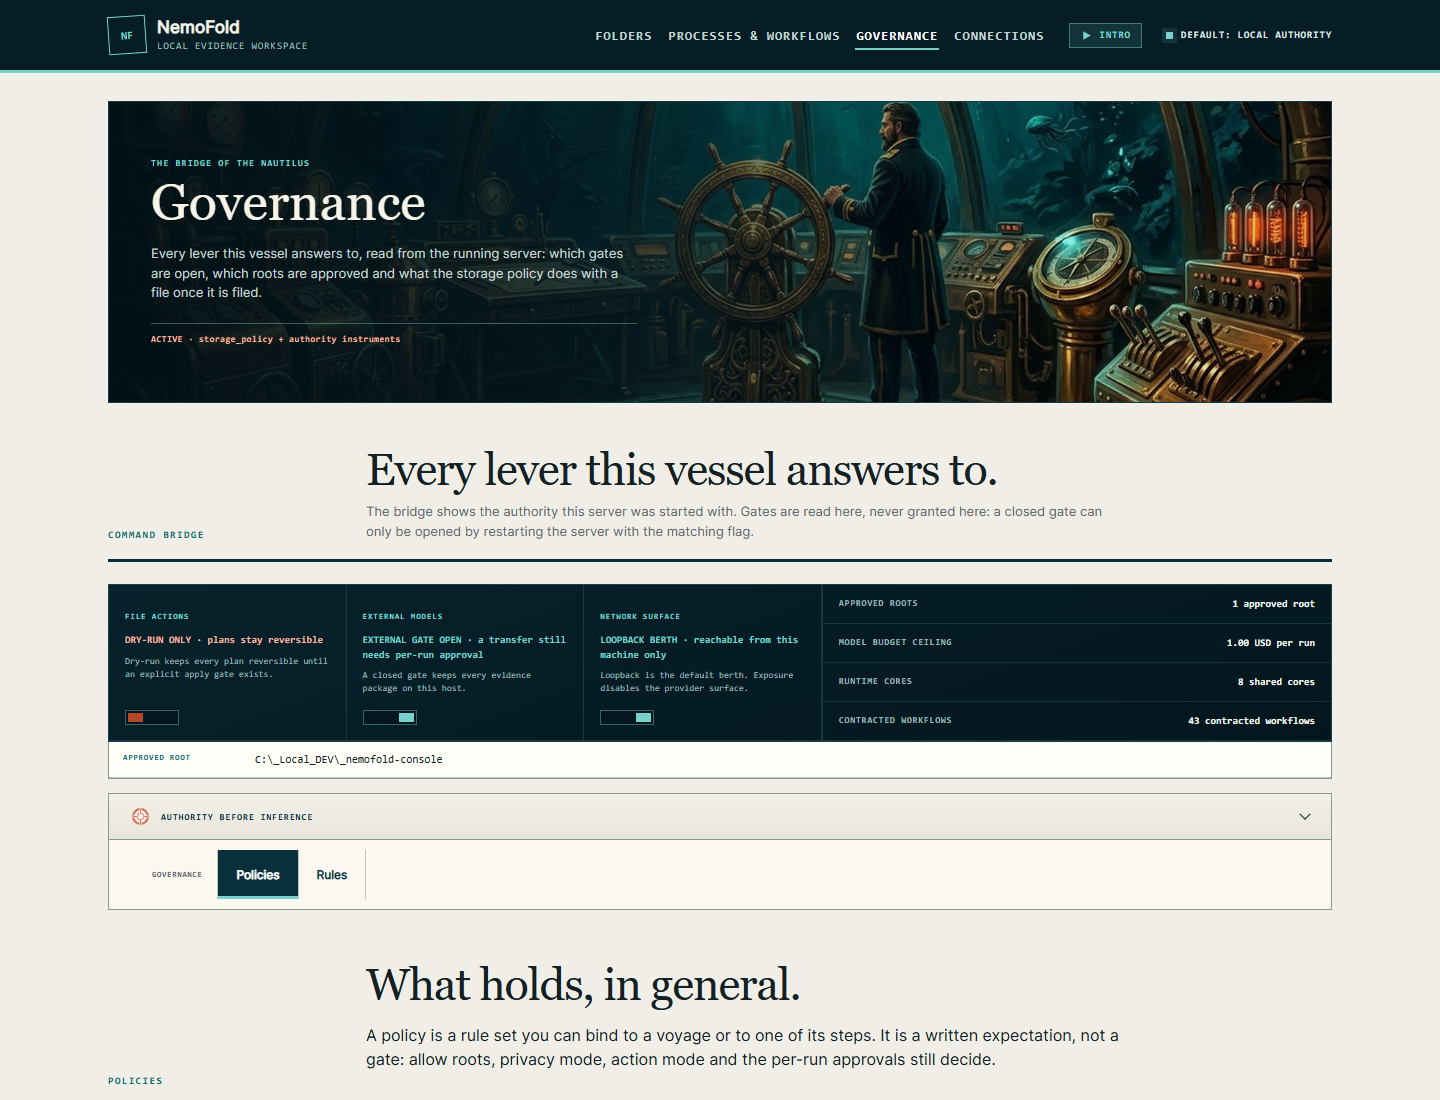
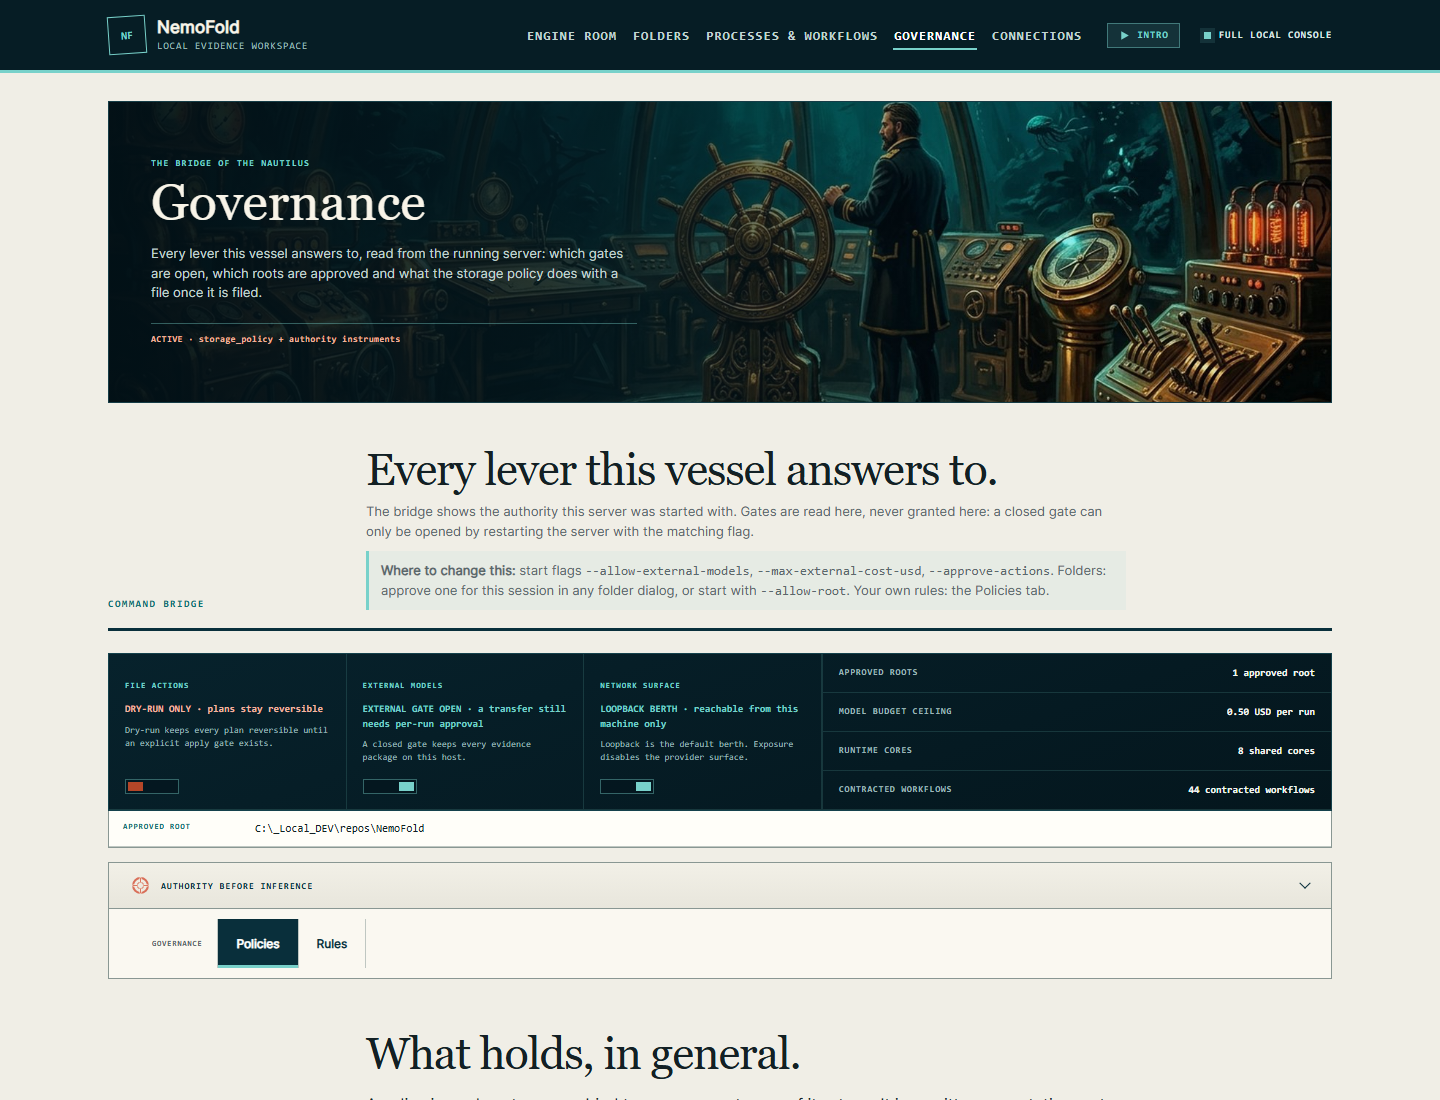
docs: align README, README_de and llms.txt with console vocabulary and Nebius provider
Actions, workflows, use cases and blueprints; workbench start page; free folder
choice; mode label; Nemotron on Nebius selectable in the console (not competition
proof); refreshed console screenshots.

diff --git a/README_de.md b/README_de.md
@@ -48,9 +48,9 @@ lassen sie sich auch für Fälle verketten, für die noch niemand einen Workflow
 geschrieben hat.
 
 Es passt sich Ihren Usecases auf zwei ehrliche Arten an: Das Captain's Desk plant aus
-einem einfachen Satz neue Kombinationen vorhandener Bausteine, und jede vorbereitete
-Fahrt wird zu einem wiederverwendbaren Entwurf. Das ist die ganze Lerngeschichte — eine
-wachsende Bibliothek von Fahrten, kein Modell, das auf Ihren Dateien trainiert. Es wird
+einem einfachen Satz neue Kombinationen vorhandener Bausteine, und jeder vorbereitete
+Plan wird zu einem wiederverwendbaren Entwurf. Das ist die ganze Lerngeschichte — eine
+wachsende Bibliothek von Usecases, kein Modell, das auf Ihren Dateien trainiert. Es wird
 nichts feinjustiert, und nichts aus Ihren Dokumenten verlässt den Rechner ohne Ihre
 Freigabe für genau diesen Transfer.
 
@@ -250,7 +250,9 @@ Das Design von NemoFold basiert auf zehn unverletzlichen System-Invarianten:
 <a id="was-implementiert-ist"></a>
 ## 6. Implementierte Dokument-Workflows
 
-`SUPPORTED_WORKFLOWS` registriert 44 Jobverträge. Die gründenden sechzehn stehen
+`SUPPORTED_WORKFLOWS` registriert 44 Jobverträge; in der Konsole ist jeder davon eine
+**Action** (ein einzelner Schritt), ein **Workflow** dagegen eine Kette aus zwei oder
+mehr Actions ([Abschnitt 16](#16-lokale-webkonsole--routen)). Die gründenden sechzehn stehen
 unten; die Fallchronik-Tiefenanalyse ergänzt sieben weitere
 ([Abschnitt 13](#13-fallchronik-tiefenanalyse)), das Prüf-/Vergleichs-/Komponier-Set
 sieben ([Abschnitt 15](#15-pruefen-vergleichen--komponieren)), und vierzehn weitere
@@ -300,7 +302,7 @@ keiner davon hatte vor diesem Durchgang eine Tabellenzeile.
 | Print Action (`print_action`) | Übergibt eine benannte Datei an das betriebssystemseitig registrierte Druckprogramm und hält fest, dass das Drucken selbst Ihr Schritt ist, nicht der Lauf |
 | Chunk Export (`chunk_export`) | Deterministische, überlappende Retrieval-Chunks für Ihren eigenen RAG-Index, jeder mit Quelle, Zeichen-Offsets, Zeilen und SHA-256, dazu ein gehashtes Manifest; ungelesene oder leere Quellen bleiben aufgeführt, und ein Korpus über der erklärten Grenze wird als Ganzes abgelehnt statt teilweise exportiert |
 
-Der Reiter Registry unter Processes & Workflows enthält außerdem den lokalen
+Der Reiter Blueprints unter Processes & Workflows enthält außerdem den lokalen
 **Research-Notebook**-Arbeitsbereich. Er hält Untersuchungsziel, freigegebene Wurzeln,
 wiederverwendbare Fragen/Prompts, Provider-Konfiguration und die Spur verifizierter
 Laufjournale zusammen, ohne API-Schlüssel oder Freigaben zu speichern.
@@ -314,7 +316,7 @@ Abdeckungslücken erhalten.
 Cloud-Kosten, Uploads, echte NemoClaw-/Nebius-Ausführung und weitere Änderungen an
 Devpost bleiben getrennte menschliche Freigabegates.
 
-![NemoFold-Konsole, Processes & Workflows: die Use-Case-Bibliothek mit gespeicherten Voyages und den mitgelieferten Spezialisten](docs/media/nemofold-console.png)
+![NemoFold-Konsole, Startseite als Werkbank: oben das Captain's Desk, darunter der geöffnete Maschinenraum](docs/media/nemofold-console.png)
 
 <a id="sec-07"></a><a id="7-installation--quick-start"></a><a id="7-installation--schnellstart"></a>
 <a id="installation--quick-start"></a><a id="installation--schnellstart"></a>
@@ -460,9 +462,15 @@ claude mcp add --scope user nemofold -- python -m nemofold mcp `
 
 Lokale Provider sind auf Loopback beschränkt. Externe Adapter verlangen `allow_once`,
 ein serverseitiges Gate für externe Modelle und eine Freigabe je Übertragung. Schlüssel
-werden nur aus Umgebungsvariablen gelesen. Generische Providerbelege werden niemals
-zum Nebius-Wettbewerbsnachweis; dafür bleibt ausschließlich der nächste Abschnitt
-zuständig. Siehe [Provideradapter, lokale API und MCP](docs/providers-and-mcp.md).
+werden nur aus Umgebungsvariablen gelesen. Nemotron auf der Nebius Token Factory ist
+in der lokalen Konsole außerdem als Provider `nebius` wählbar: Der Schlüssel kommt nur
+aus `NEBIUS_API_KEY`, der Server muss mit
+`--allow-external-models --max-external-cost-usd <n>` gestartet sein, jeder Lauf
+braucht eine eigene Freigabe mit Datenschutzmodus `allow_once`, und gesendet werden nur
+pseudonymisierte Ausschnitte. Generische Providerbelege, auch ein Konsolenlauf mit
+`nebius`, werden niemals zum Nebius-Wettbewerbsnachweis; dafür bleibt ausschließlich
+der nächste Abschnitt (der separate Pfad `token-factory-run`, eingecheckt unter
+`examples/proven-run/`) zuständig. Siehe [Provideradapter, lokale API und MCP](docs/providers-and-mcp.md).
 
 <a id="sec-11"></a><a id="11-approved-nebius-token-factory-run"></a><a id="11-belegter-nebius-token-factory-lauf"></a>
 <a id="approved-nebius-token-factory-run"></a><a id="belegter-nebius-token-factory-lauf"></a>
@@ -599,10 +607,15 @@ und des Journals fortsetzen.
 <a id="my-use-cases-the-voyages-library"></a><a id="meine-usecases-die-fahrten-bibliothek"></a>
 ## 12. Fahrtbibliothek & Captain's Desk
 
-Ein Plan, den Sie behalten, bekommt einen Namen. Die Übersicht trägt die Bibliothek:
-gespeicherte Fahrten neben fünf Spezialisten, die NemoFold mitbringt — Faktendestillat
+Ein Plan, den Sie behalten, bekommt einen Namen und heißt **Usecase**: eine Action oder
+ein Workflow, aus einem Blueprint übernommen (oder vom Captain geplant) und an Ihre
+eigenen Ordner gebunden. Die Konsole listet sie unter *My use cases*; die
+mitgelieferten Ausgangspunkte stehen unter *Blueprints*
+([Abschnitt 16](#16-lokale-webkonsole--routen)). Im Folgenden ist eine „Fahrt“ der
+gespeicherte Plan hinter einem Usecase. Die Bibliothek trägt gespeicherte Fahrten neben
+fünf Blueprints, die NemoFold mitbringt — Faktendestillat
 als PDF, Themenbündel mit Belegen, Tagesbericht, Verzeichnistabelle und
-Angebotssynopse. Ein Spezialist ist ein schreibgeschützter Ausgangspunkt: Er trägt
+Angebotssynopse. Ein mitgelieferter Blueprint ist ein schreibgeschützter Ausgangspunkt: Er trägt
 Workflows und Parameter, aber keinen Pfad. Eine mitgelieferte Datei kann deshalb nie
 einen Ordner auf Ihrem Rechner benennen und nie von selbst laufen. Beim Kopieren wird
 sie an Ihre freigegebenen Roots gebunden und ist danach ein gewöhnlicher, bearbeitbarer
@@ -843,7 +856,10 @@ $env:PYTHONPATH = "$PWD\src"
 python -m nemofold serve --allow-root $PWD --base-dir $PWD
 ```
 
-Öffne `http://127.0.0.1:8765`. Die Konsole verwendet denselben strikten Auftragsparser
+Öffne `http://127.0.0.1:8765`; das Etikett oben lautet `FULL LOCAL CONSOLE` (die Demo
+unten: `PUBLIC DEMO · SYNTHETIC DATA ONLY`). Der Standard-Beispielordner ist die
+fiktive Fallakte `examples/synthetic-case` mit deutschen Standardfragen. Die Konsole
+verwendet denselben strikten Auftragsparser
 und Anwendungsdienst wie die CLI. Sie bindet nur an Loopback, lehnt Cross-Origin-POSTs
 ab und verlangt `--expose-network`, bevor sie eine Nicht-Loopback-Adresse verwendet.
 Auch dann bleiben die autoritätstragenden Flächen Loopback-only: Ein netzexponierter
@@ -852,22 +868,38 @@ Hosting für andere Personen läuft über `serve-demo`. Preview ist der standard
 sichere Pfad; Aktionsworkflows benötigen zusätzlich das serverseitige Gate
 `--approve-actions`, bevor eine Apply-Anfrage erfolgreich sein kann.
 
-Übersicht und vier Arbeitsbereiche besitzen eigene, direkt aufrufbare Routen statt
+Die Startseite `/` ist die **Werkbank**: oben das Captain's Desk, darunter der
+geöffnete Maschinenraum (erster Menüpunkt: *Engine room*). Übersicht und vier
+Arbeitsbereiche besitzen eigene, direkt aufrufbare Routen statt
 Sprüngen innerhalb einer langen Seite: `/`, `/folders`, `/processes`, `/governance` und
 `/connections`. Analysis, Routines und Artifacts waren einmal eigene Räume — damit
 entschied die Tür, durch die man kam, darüber, was man sehen konnte. Sie sind jetzt drei
-Untertabs von Processes & Workflows: `?tab=workflows`, `?tab=registry` und
-`?tab=artifacts`. Die alten Routen führen weiterhin irgendwohin: `/document-center`,
+Untertabs von Processes & Workflows: `?tab=workflows` (My use cases), `?tab=registry`
+(Blueprints) und `?tab=artifacts` (die URL-Schlüssel sind unverändert). Die alten Routen führen weiterhin irgendwohin: `/document-center`,
 `/analysis`, `/routines` und `/artifacts` leiten auf ihren Nachfolger um, und ein Link,
-der einen einzelnen Vertrag nennt, landet im Register mit genau diesem Vertrag.
+der einen einzelnen Vertrag nennt, landet im Reiter Blueprints mit genau diesem Vertrag.
+
+Begriffe: Eine **Action** ist ein Schritt, also einer der 44 Jobverträge (das API-Feld
+heißt weiterhin `workflow`); ein **Workflow** ist eine Kette aus zwei oder mehr
+Actions; ein **Usecase** ist eine übernommene, an Ihre eigenen Ordner gebundene Action
+oder ein ebensolcher Workflow; **Blueprints** sind die Vorlagen. Der Reiter Blueprints
+listet Workflow-Blueprints (zwei oder mehr Schritte), Single-Action-Blueprints,
+*My blueprints* und darunter alle 44 Actions, jeweils mit *Add to my use cases* und
+*Try once*. Ein Blueprint lässt sich beliebig oft übernehmen (Kopien werden
+nummeriert) und im Dialog umbenennen; ein Usecase lässt sich als eigener Blueprint
+speichern oder mit *Remove from my use cases* entfernen, was den Blueprint nie
+berührt. Usecase-Details öffnen als Dialog.
 
 Verändert hat sich, was vorn steht, nicht die Räume. Usecase-Kacheln sind das
 Primärobjekt, thematisch über Tags filterbar, und eine Routine ist schlicht ein Usecase
 mit Zeitplan und dem abgeleiteten Tag `scheduled` — dieser Filter macht aus dem Bullauge
-das Echolot und holt die letzten Routineläufe nach vorn. Die Einzelinstrumente, also die
-44 Jobverträge für sich, leben in einem nicht-thematischen Register, dessen Editor
+das Echolot und holt die letzten Routineläufe nach vorn. Die einzelnen Actions, also die
+44 Actions (Jobverträge) für sich, stehen im Reiter Blueprints, dessen Editor
 der Maschinenraum ist. Folders ist das Zuhause der Ordner: welche überwacht werden, was
-tatsächlich an Bord ist, und welche Usecases daran hängen. Die Übersicht selbst bleibt
+tatsächlich an Bord ist, und welche Usecases daran hängen. In der lokalen Konsole
+durchsucht der Ordnerdialog jeden Ordner dieses Rechners und gibt ihn für die laufende
+Sitzung frei (`/api/approve-root`); gelesen wird erst nach dieser Freigabe. Die
+Public Demo und ein netzfreigegebener Server verweigern das. Die Übersicht selbst bleibt
 bewusst karg — eine Überschrift, ein Satz und die Bereichskarten — und faltet
 Grenz-Kacheln, Evidenzkette, Vertragsregister und Roadmap hinter eine alte Seekarte, die
 sich per Klick oder Enter aufklappt. Nichts wird entfernt; die Dokumentation verschmutzt
@@ -880,7 +912,8 @@ geschlossenes Gate verlangt weiterhin einen Neustart mit dem passenden Flag. Dar
 liegen die beiden Register aus dem nächsten Abschnitt. Artifacts öffnet ausgeführte oder
 blockierte Ledger und prüft jeden erfassten Artefakthash. Connections ist eine reine
 Statusseite und trennt konfigurierte Adapter, ausgeführte Providerläufe, Transfers und
-Cloud-Nachweise sichtbar voneinander. Das Register enthält weiterhin alles, was es immer
+Cloud-Nachweise sichtbar voneinander; Connections und Governance sagen jeweils, wo
+sich eine Einstellung ändern lässt. Die Konsole enthält weiterhin alles, was es immer
 enthielt: erklärbare Cleanup Rules, schreibgeschützten Mail-to-Case-Ingest, kontrollierte
 E-Mail-Entwürfe, den quellengebundenen Contact Monitor, deterministische
 Bundle-Vorbereitung, Datenschutz-Preflight, Evidence Analyst, wiederverwendbare

diff --git a/README.md b/README.md
@@ -48,9 +48,9 @@ shared rather than private to one workflow, the same building blocks can be chai
 for a case nobody has written a workflow for yet.
 
 It adapts to your use cases in two honest ways: the Captain's Desk plans new
-combinations of existing primitives from one plain sentence, and every prepared voyage
+combinations of existing primitives from one plain sentence, and every prepared plan
 becomes a reusable draft. That is the whole learning story - a growing library of
-voyages, not a model that trains on your files. Nothing is fine-tuned, and nothing
+use cases, not a model that trains on your files. Nothing is fine-tuned, and nothing
 about your documents leaves the host unless you approve that specific transfer.
 
 The same core serves both ends of the range: everyday work on a laptop with a small
@@ -249,7 +249,9 @@ NemoFold enforces ten architectural invariants across all workflows, CLI command
 <a id="what-is-implemented"></a>
 ## 6. Implemented Document Workflows
 
-`SUPPORTED_WORKFLOWS` registers 44 job contracts. The founding sixteen are below;
+`SUPPORTED_WORKFLOWS` registers 44 job contracts; in the console each one is an
+**action** (a single step), while a **workflow** is a chain of two or more actions
+([Section 16](#16-local-web-console--routes)). The founding sixteen are below;
 Case Chronicle deep analysis adds seven more ([Section 13](#13-case-chronicle-deep-analysis)),
 the checking/comparing/composing set adds seven ([Section 15](#15-checking-comparing--composing)),
 and fourteen further gate-verified structured-source, web, export and specialist workflows
@@ -298,7 +300,7 @@ table row before this pass.
 | Print Action (`print_action`) | Hands one named file to the OS-registered print handler and records that printing, not the run, is the user's own step |
 | Chunk Export (`chunk_export`) | Deterministic, overlapping retrieval chunks for your own RAG index, each with source, character offsets, lines and SHA-256, plus a hashed manifest; unread or empty sources stay listed, and a corpus over the declared bound is refused whole instead of exported in part |
 
-The Registry tab under Processes & Workflows also holds the local **Research Notebook**
+The Blueprints tab under Processes & Workflows also holds the local **Research Notebook**
 workspace. It keeps an investigation goal, approved roots, reusable questions/prompts,
 provider configuration, and a trail of verified run ledgers together without storing
 API keys or approvals.
@@ -311,7 +313,7 @@ unreadable files remain visible as coverage gaps.
 Cloud spend, uploads, live NemoClaw/Nebius execution, and further Devpost changes
 remain separate human approval gates.
 
-![NemoFold console, Processes & Workflows: the use-case library with saved voyages and the shipped specialists](docs/media/nemofold-console.png)
+![NemoFold console start page, the workbench: the Captain's Desk on top, the engine room open below it](docs/media/nemofold-console.png)
 
 <a id="sec-07"></a><a id="7-installation--quick-start"></a><a id="7-installation--schnellstart"></a>
 <a id="installation--quick-start"></a><a id="installation--schnellstart"></a>
@@ -458,8 +460,14 @@ claude mcp add --scope user nemofold -- python -m nemofold mcp `
 
 Local providers are restricted to loopback. External adapters require `allow_once`, a
 server-side external-model gate, and per-call transfer approval. Keys come only from
-environment variables. Generic provider receipts never become Nebius competition
-proof; the next section remains the only such route. See
+environment variables. Nemotron on Nebius Token Factory is also selectable in the
+local console as provider `nebius`: the key comes only from `NEBIUS_API_KEY`, the
+server must be started with `--allow-external-models --max-external-cost-usd <n>`,
+every run needs its own approval with privacy `allow_once`, and only pseudonymized
+excerpts are sent. Generic provider receipts, including a console run on `nebius`,
+never become Nebius competition proof; the next section (the separate
+`token-factory-run` path, committed under `examples/proven-run/`) remains the only
+such route. See
 [Provider adapters, local API, and MCP](docs/providers-and-mcp.md).
 
 <a id="sec-11"></a><a id="11-approved-nebius-token-factory-run"></a><a id="11-belegter-nebius-token-factory-lauf"></a>
@@ -589,9 +597,13 @@ preserving the original job identity and journal.
 <a id="my-use-cases-the-voyage-library"></a>
 ## 12. Voyage Library & Captain's Desk
 
-A plan you keep gets a name. The overview holds the library: saved voyages next to
-five specialists that ship with NemoFold - fact digest as PDF, topic bundle with
-evidence, daily arrivals, registry table, and offer synopsis. A specialist is a
+A plan you keep gets a name and is called a **use case**: an action or a workflow
+adopted from a blueprint (or planned by the captain) and bound to your own folders.
+The console lists them under *My use cases*; the shipped starting points live under
+*Blueprints* ([Section 16](#16-local-web-console--routes)). In the text below, a
+"voyage" is the stored plan behind a use case. The library holds saved voyages next to
+five blueprints that ship with NemoFold - fact digest as PDF, topic bundle with
+evidence, daily arrivals, registry table, and offer synopsis. A shipped blueprint is a
 read-only starting point that carries workflows and parameters but no path, so a
 shipped file can never name a folder on your machine and can never run by itself.
 Copying one binds it to your approved roots; from then on it is an ordinary entry you
@@ -823,7 +835,10 @@ $env:PYTHONPATH = "$PWD\src"
 python -m nemofold serve --allow-root $PWD --base-dir $PWD
 ```
 
-Open `http://127.0.0.1:8765`. The console uses the same strict job parser and
+Open `http://127.0.0.1:8765`; the label at the top reads `FULL LOCAL CONSOLE` (the
+demo below reads `PUBLIC DEMO · SYNTHETIC DATA ONLY`). The default example folder is the
+fictional case file `examples/synthetic-case`, with default questions in German. The
+console uses the same strict job parser and
 application service as the CLI. It starts on loopback only, rejects cross-origin POSTs,
 and requires `--expose-network` before it will bind to a non-loopback address. Even
 then the authority-bearing surfaces stay loopback-only: a network-exposed server
@@ -832,22 +847,37 @@ hosting for other people goes through `serve-demo`. Preview is the default safe 
 action workflows additionally require the server-side `--approve-actions` gate before
 an apply request can succeed.
 
-The overview and four work areas use distinct, bookmarkable routes instead of in-page
+The start page `/` is the **workbench**: the Captain's Desk on top and the engine room
+open below it (the first menu item is *Engine room*). The overview and four work areas use distinct, bookmarkable routes instead of in-page
 scroll jumps: `/`, `/folders`, `/processes`, `/governance` and `/connections`. Analysis,
 Routines and Artifacts used to be rooms of their own, which meant the door you came
 through decided what you could see. They are now three tabs of Processes & Workflows —
-`?tab=workflows`, `?tab=registry` and `?tab=artifacts`. The old routes still lead
+`?tab=workflows` (My use cases), `?tab=registry` (Blueprints) and `?tab=artifacts`
+(the URL keys are unchanged). The old routes still lead
 somewhere: `/document-center`, `/analysis`, `/routines` and `/artifacts` redirect to
-their replacement, and a link that names one contract lands in the registry with that
-contract selected.
+their replacement, and a link that names one contract lands in the Blueprints tab with
+that contract selected.
+
+Vocabulary: an **action** is one step, i.e. one of the 44 job contracts (the API field
+is still `workflow`); a **workflow** is a chain of two or more actions; a **use case**
+is an action or workflow you adopted and bound to your own folders; **blueprints** are
+the templates. The Blueprints tab lists workflow blueprints (two or more steps),
+single-action blueprints, *My blueprints*, and below them all 44 actions, each with
+*Add to my use cases* and *Try once*. A blueprint can be adopted any number of times
+(copies are numbered) and renamed in the dialog; a use case can be saved as a blueprint
+of your own or removed with *Remove from my use cases*, which never touches its
+blueprint. Use-case details open as a dialog.
 
 What stands in front changed, not the rooms. Use-case tiles are the primary object,
 filtered by topic tags, and a routine is simply a use case that carries a schedule and
 the derived `scheduled` tag — choosing that filter is what turns the porthole into the
-echo sounder and surfaces the last routine ledgers. The single instruments, meaning the
-44 job contracts on their own, live in one non-thematic registry with the engine
-room as their editor. Folders is the home of your folders: which ones are watched, what
-is actually on board, and the use cases bound to them. The overview itself stays
+echo sounder and surfaces the last routine ledgers. The single actions, meaning the
+44 actions (job contracts) on their own, are listed in the Blueprints tab, with the
+engine room as their editor. Folders is the home of your folders: which ones are watched, what
+is actually on board, and the use cases bound to them. In the local console the folder
+dialog browses any folder on this computer and approves it for the current session
+(`/api/approve-root`); reading starts only after that approval. The public demo and a
+network-exposed server refuse it. The overview itself stays
 deliberately bare — one headline, one sentence and the area cards — and folds the
 boundary tiles, the evidence chain, the contract register and the roadmap behind an
 antique ship's chart that unfolds on click or Enter. Nothing is removed; documentation
@@ -859,7 +889,8 @@ workflows. Gates are read there, never granted there: a closed gate still requir
 restart with the matching flag. Below them sit the two registers described in the next
 section. Artifacts opens executed or blocked ledgers and verifies every recorded
 artifact hash. Connections is a pure status page that keeps configured adapters,
-executed provider runs, transfers, and cloud proof visibly separate. The registry still
+executed provider runs, transfers, and cloud proof visibly separate; Connections and
+Governance each say where a setting is changed. The console still
 holds everything it always did: explainable Cleanup Rules, read-only Mail-to-Case
 intake, Controlled Email drafts, the source-grounded Contact Monitor, deterministic
 bundle preparation, privacy preflight, Evidence Analyst, reusable prompt sets and
